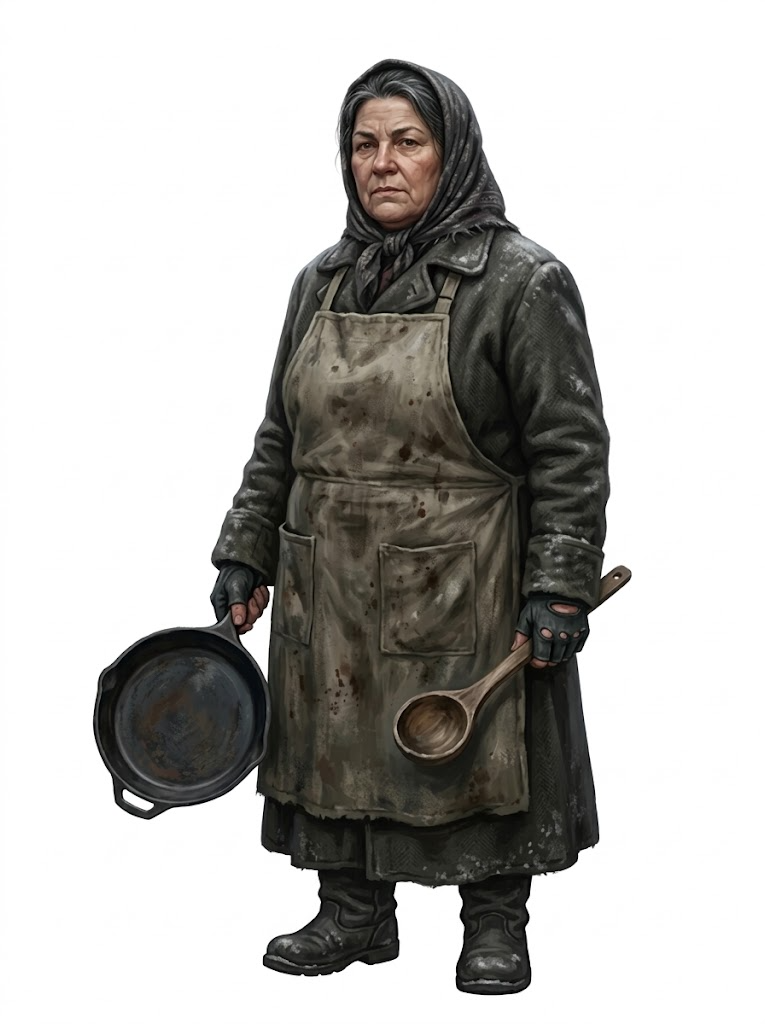
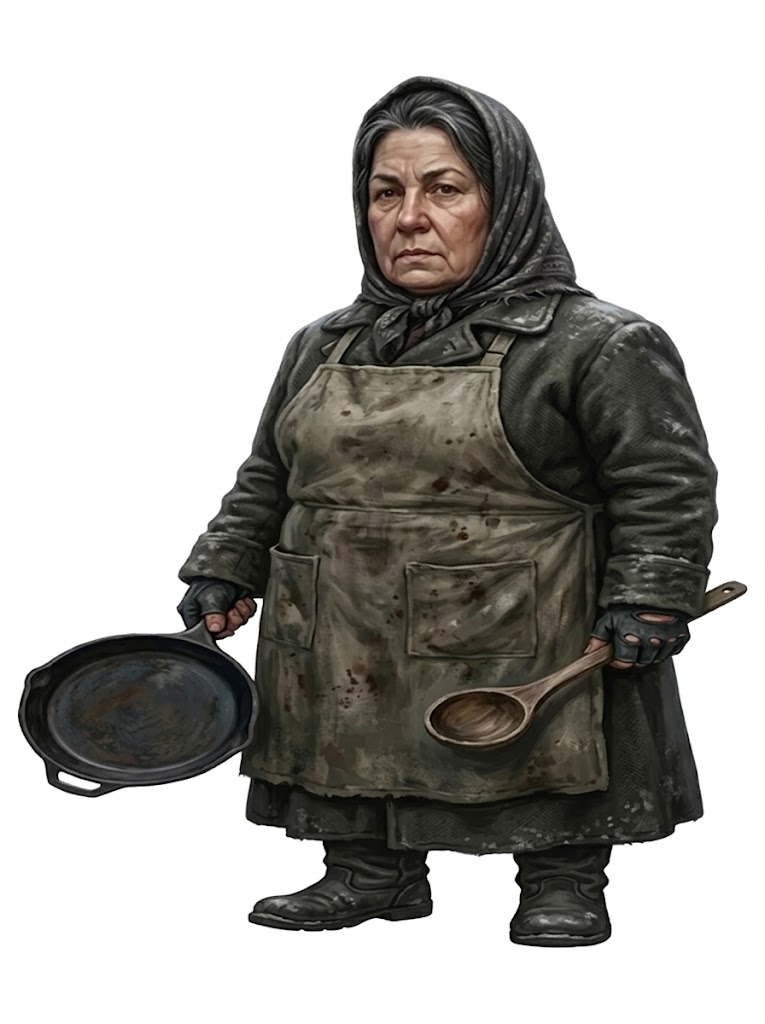
M5: figure concepts at miniature proportions
Gemini edit of the 29 humanoid survivor figures to about 4.5 heads tall (measured mean 4.6); previous figures archived, sparky unchanged.

diff --git a/art/PROMPTS-gemini-figures.md b/art/PROMPTS-gemini-figures.md
@@ -2,7 +2,7 @@
 
 Full-body figure concepts for the 30 survivors, generated with Google Gemini (image generation) from each survivor's own card portrait (`public/assets/portraits/<slug>.webp`, converted to PNG and attached as the reference). One chat per batch of 8 (the last batch had 6). Gemini returned 765x1024 or 820x1024 images, saved unchanged as `art/unit-concepts/<slug>.png`. The earlier SDXL concepts are archived in `art/archive/concepts-sdxl/`. Zombie concepts are unchanged.
 
-Quality gates: whole body visible, white background, no text, clothing colours and prop match the portrait. All 30 passed on the first generation, so no retries were needed. Figures read as roughly 6 to 7 heads tall (more realistic than the requested 4.5), and the sheet `art/figure-sheets/gemini-figures.png` shows each portrait beside its figure.
+Quality gates: whole body visible, white background, no text, clothing colours and prop match the portrait. All 30 passed on the first generation, so no retries were needed. Those first figures read as roughly 6 to 7 heads tall (more realistic than the requested 4.5); they are archived in `art/archive/concepts-gemini-realistic/` and replaced by the miniature-proportion edits described in the last section. The sheet `art/figure-sheets/gemini-figures.png` shows each portrait beside its figure.
 
 ## Prompt (each survivor except Sparky, with the survivor's portrait attached)
 
@@ -22,3 +22,30 @@ Create an image: Using the attached character as the design reference (same face
 2. carla-thompson, daniel-smith, david-garcia, edward-white, forest-plum, gabriel-diaz, gray-beard, harman-brooks
 3. buddy-davis, james-meyers, janet-taylor, jenny-clark, john-price, loretta-clay, maria-lopez, mike-cho
 4. olivia-brown, rod-miller, sophie-robinson, sparky, talia-jones, thomas-heart
+
+## Proportion edit (second pass, replaces the figures above)
+
+Each survivor's figure PNG was edited in Gemini (Claude in Chrome, Windows PC, images attached through the hidden file input, never the clipboard) to about 4.5 heads tall. One chat per batch of 8 (the last had 5). Sparky is unchanged (a dog keeps natural proportions). Edited results are saved over `art/unit-concepts/<slug>.png`; the previous Gemini figures are in `art/archive/concepts-gemini-realistic/`. Gemini returned 765x1024 images, saved unchanged. Ratios on `art/figure-sheets/gemini-figures.png` are head-to-height measured with PIL on the silhouette (crown or hat top to feet) plus a chin line read by eye on a ruler overlay, so each is good to about 0.15 heads.
+
+Test results on daniel-smith and janet-taylor (head-to-height, hat included for Daniel):
+
+1. Wording A, the plain edit prompt below: Daniel 5.3 (and it turned into a photo of a miniature on a base), Janet 7.1 (unchanged). Failed.
+2. Wording B ("a clearly larger head, a short sturdy torso and short stocky legs, head about one fifth of the total height"): Janet 5.8, only the head grew, legs stayed long, caricature look.
+3. Wording C ("head about 22 percent ... legs shortened by about a third ... not a caricature"): Janet unchanged at about 7. Failed.
+4. Wording D (B plus "legs about a third shorter than in this image"): Janet 6.6. Failed.
+
+Gemini keeps the composition of the attached image, so text alone cannot shorten the body. What worked (wording E): before uploading, the body below the chin line was squashed vertically by a per-figure factor (0.50 to 0.90, aimed at 4.4 heads, with the head left unscaled) with PIL, and Gemini was asked to repaint the squashed figure cleanly and keep its proportions. Result: Daniel 4.35, Janet 4.45; all 29 survivors measure 4.2 to 5.3 heads, mean 4.6.
+
+### Wording A (first test, did not work)
+
+```
+Edit this image: keep the exact same character, face, clothing, colours, prop and pose, but restyle the body proportions as a premium painted tabletop miniature: the head is larger relative to the body so the total height is about four and a half head-heights, sturdy slightly shorter legs, slightly oversized hands and prop, detailed and realistic surfaces, not cute. Full body head to feet, plain pure white background, even soft lighting, no shadows, no text.
+```
+
+### Wording E (used for all 29 survivors, with the pre-squashed figure attached)
+
+```
+Edit this image: this figure has deliberately short, sturdy premium painted tabletop miniature proportions, about four and a half heads tall. Keep exactly the same overall proportions, head size and height, and keep the exact same character, face, clothing, colours, prop and pose. Repaint it cleanly with natural anatomy, sharp detail and consistent realistic surfaces, slightly oversized hands and prop, not cute. Full body head to feet, standing on nothing (no base, no ground), plain pure white background, even soft lighting, no shadows, no text.
+```
+
+Batches: 1. alexis-grey, andrew-evans, annaleigh-chan, arthur-thurston, ashley-ross, bev-russell, brandon-kane, brian-lee. 2. daniel-smith, carla-thompson, david-garcia, edward-white, forest-plum, gabriel-diaz, gray-beard, harman-brooks. 3. buddy-davis, james-meyers, janet-taylor, jenny-clark, john-price, loretta-clay, maria-lopez, mike-cho. 4. olivia-brown, rod-miller, sophie-robinson, talia-jones, thomas-heart. No figure needed a retry (one slow generation, jenny-clark, was still collected intact).
